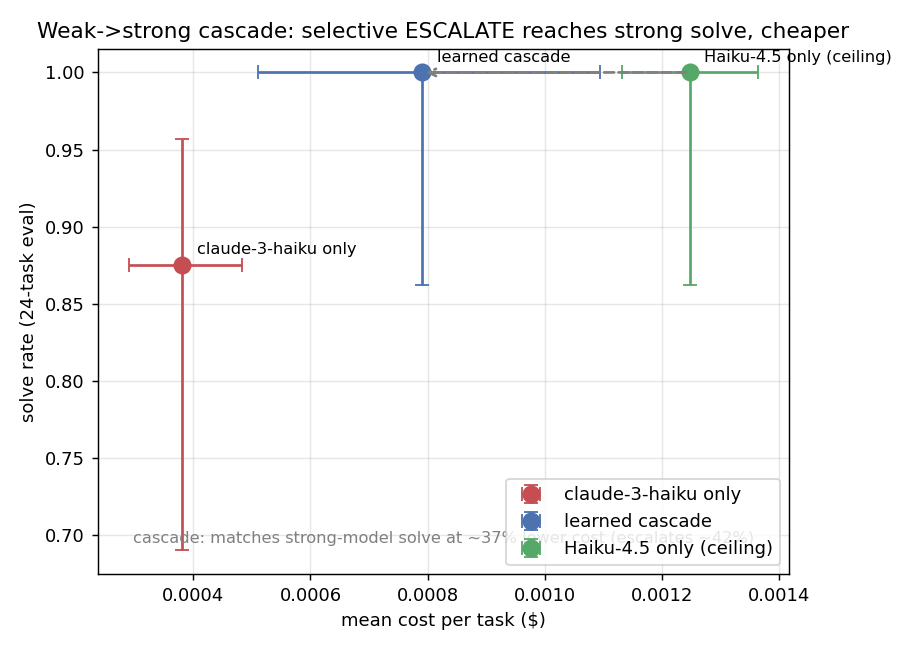
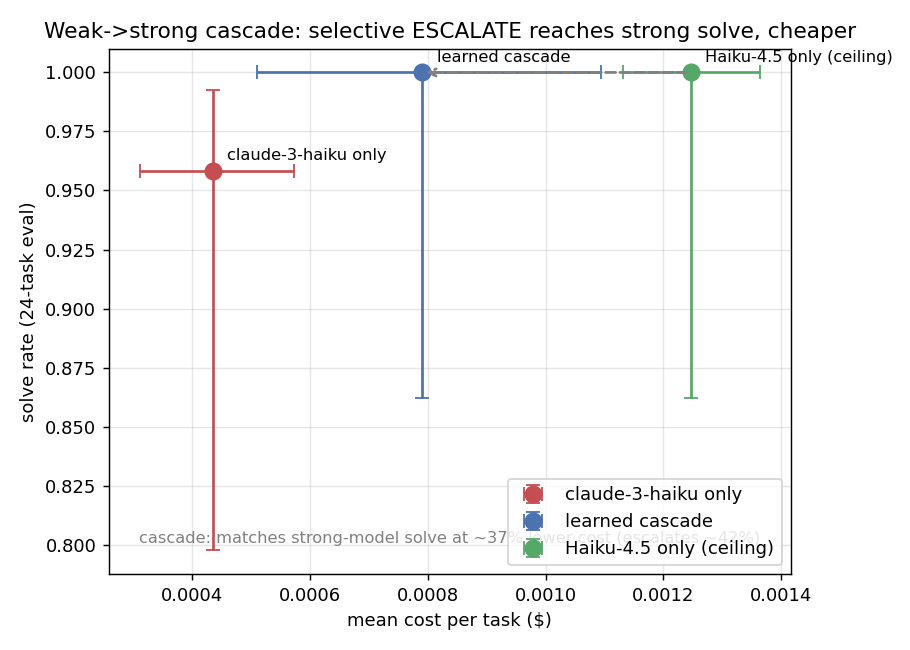
Honest cascade reporting: report p95 tail (worsens), fair cheap baseline (0.96 not 0.88), over-escalation (2/10 truly needed), exact-grade trigger + budget-not-a-cap caveats; add analyze_eval --ab2 cross-file paired command; fix stale state-doc blocks

diff --git a/scripts/analyze_eval.py b/scripts/analyze_eval.py
@@ -202,6 +202,59 @@ def analyze_stops(paths: list[str], policy: str | None = None) -> None:
             print("  (no STOP traces)")
 
 
+def analyze_ab2(path_a: str, path_b: str, tag_a: str | None = None,
+                tag_b: str | None = None) -> None:
+    """Paired A/B across TWO separate eval files (e.g. a cascade run vs a strong-only
+    run), pairing on shared task_id. analyze_ab() only handles two policy tags inside
+    ONE file; cross-file comparisons (the cascade-vs-strong result) need this. Reports
+    solve (Wilson + McNemar), the paired per-task cost CI, and the MEAN and P95 (tail)
+    cost of each arm -- the tail matters because a cascade can win on mean and lose on
+    p95. Pass --ab2-tags to pick a policy tag from each file (default: highest @rN)."""
+    import numpy as np
+
+    def _load(path, tag):
+        per = defaultdict(dict)
+        for t in TraceLog(path).read():
+            per[t.policy][t.task_id] = t
+        names = list(per)
+        if tag is None:
+            tag = max(names, key=lambda p: int(p.split("@r")[1]) if "@r" in p else -1)
+        if tag not in per:
+            raise SystemExit(f"[ab2] tag {tag} not in {path} (have {names})")
+        return tag, per[tag]
+
+    ta, A = _load(path_a, tag_a)
+    tb, B = _load(path_b, tag_b)
+    shared = sorted(set(A) & set(B))
+    n = len(shared)
+    if not n:
+        print("[ab2] no shared task_ids."); return
+
+    def solved(t):
+        return bool(t.solved or t.terminal_reward >= 0.99)
+
+    def cost(t):
+        return (t.total_cost or {}).get(t.currency, 0.0)
+
+    ka = sum(solved(A[t]) for t in shared)
+    kb = sum(solved(B[t]) for t in shared)
+    print(f"=== paired A/B (cross-file): {ta} [{path_a}] vs {tb} [{path_b}] | {n} shared ===\n")
+    print(f" solve {ta}: {wilson_ci(ka, n)}")
+    print(f" solve {tb}: {wilson_ci(kb, n)}")
+    mc = mcnemar([(solved(A[t]), solved(B[t])) for t in shared])
+    print(f" McNemar (paired solve): p={mc['p_value']:.3f}  "
+          f"({'tied' if mc['p_value'] > 0.05 else 'significant'})")
+    ca = [cost(A[t]) for t in shared]
+    cb = [cost(B[t]) for t in shared]
+    ci = paired_diff_ci([cb[i] - ca[i] for i in range(n)])
+    sig = ("  <-- B resolved CHEAPER" if ci.hi < 0 else
+           "  <-- B resolved MORE EXPENSIVE" if ci.lo > 0 else "  (straddles 0)")
+    print(f"\n mean cost {ta}={np.mean(ca):.5f} (p95 {np.percentile(ca,95):.5f}) | "
+          f"{tb}={np.mean(cb):.5f} (p95 {np.percentile(cb,95):.5f})")
+    print(f" paired mean-cost delta ({tb}-{ta}): {ci}{sig}")
+    print(f" NOTE: tail (p95) can move the opposite way to the mean; report both.")
+
+
 def analyze_oracle(paths: list[str], policy: str | None = None) -> None:
     """Oracle-rescue: WHY does the chosen policy miss the tasks it misses? For each
     SOLVABLE task the target policy failed, classify the miss so the right next lever
@@ -275,6 +328,10 @@ def main() -> None:
                     help="trace files: classify a policy's solvable misses (premature/recoverable/capability)")
     ap.add_argument("--oracle-policy", default=None,
                     help="target policy tag for --oracle (default: highest @rN)")
+    ap.add_argument("--ab2", nargs=2, metavar=("FILE_A", "FILE_B"), default=None,
+                    help="paired A/B across two separate eval files (e.g. cascade vs strong-only)")
+    ap.add_argument("--ab2-tags", nargs=2, metavar=("TAG_A", "TAG_B"), default=None,
+                    help="policy tag to pick from each --ab2 file (default: highest @rN each)")
     args = ap.parse_args()
     if args.ab:
         analyze_ab(args.ab)
@@ -286,8 +343,11 @@ def main() -> None:
         analyze_stops(args.stops, args.stops_policy)
     if args.oracle:
         analyze_oracle(args.oracle, args.oracle_policy)
-    if not (args.ab or args.irt or args.verifier or args.stops or args.oracle):
-        ap.error("pass --ab, --irt, --verifier, --stops, and/or --oracle")
+    if args.ab2:
+        ta, tb = (args.ab2_tags or (None, None))
+        analyze_ab2(args.ab2[0], args.ab2[1], ta, tb)
+    if not (args.ab or args.irt or args.verifier or args.stops or args.oracle or args.ab2):
+        ap.error("pass --ab, --ab2, --irt, --verifier, --stops, and/or --oracle")
 
 
 if __name__ == "__main__":

diff --git a/scripts/make_figures.py b/scripts/make_figures.py
@@ -250,7 +250,9 @@ def fig_cascade():
     cost -- the win is 'near-strong solve, far-below-strong cost, selectively'."""
     try:
         pts = {
-            "claude-3-haiku only":     _arm("casc3_A_c3h_eval.jsonl", "dpo@r2"),
+            # cheap-only at its BEST achievable point (bandit@r0, 0.96) -- not the weaker
+            # dpo@r2 (0.88) -- so the baseline is not cherry-picked low.
+            "claude-3-haiku only":     _arm("casc3_A_c3h_eval.jsonl", "bandit@r0"),
             "learned cascade":         _arm("casc5_B_cw15_eval.jsonl", "dpo@r2"),
             "Haiku-4.5 only (ceiling)": _arm("casc2_C_haikuonly_eval.jsonl", "dpo@r2"),
         }

diff --git a/README.md b/README.md
@@ -188,21 +188,40 @@ Two findings, both from measurement catching a wrong default:
    always-escalate is genuinely near-optimal — the policy was right). claude-3-haiku at ~0.88 does.
 
 With the rescue gate and a calibrated budget, the learned cascade **matches Haiku-4.5's solve rate
-at ~37% lower cost, escalating only ~42% of tasks**:
+at ~37% lower MEAN cost, escalating ~42% of tasks**:
 
 ![Weak→strong cascade frontier](artifacts/cascade_frontier.png)
 
-| arm | solve | mean cost/task | escalate rate |
-|-----|-------|----------------|---------------|
-| claude-3-haiku only | 0.88 | $0.00038 | — |
-| **learned cascade** | **1.00** | **$0.00079** | **0.42** |
-| Haiku-4.5 only (ceiling) | 1.00 | $0.00125 | — |
+| arm | solve | mean cost | p95 (tail) cost | escalate rate |
+|-----|-------|-----------|-----------------|---------------|
+| claude-3-haiku only (best, bandit) | 0.96 | $0.00043 | $0.00110 | — |
+| claude-3-haiku only (dpo r2) | 0.88 | $0.00038 | $0.00088 | — |
+| **learned cascade** | **1.00** | **$0.00079** | **$0.00203** | **0.42** |
+| Haiku-4.5 only (ceiling) | 1.00 | $0.00125 | $0.00169 | — |
 
-Paired, 24-task eval, cascade vs Haiku-4.5-only: solve **1.00 vs 1.00** (McNemar p=1.0, tied), cost
-delta **−0.000 [−0.001, −0.000] (95% bootstrap CI excludes 0 → resolved cheaper)**. The controller
-learned to try the cheap model first and escalate only the tasks it fails — reaching the strong
-model's accuracy for ~⅔ of its cost. (This is a separate experiment from the cost result above; it
-uses a different cheap/strong model pair and is not mixed into the single-model numbers.)
+Paired, 24-task eval, cascade vs Haiku-4.5-only: solve **1.00 vs 1.00** (McNemar p=1.0, tied), mean
+cost delta **−0.000 [−0.001, −0.000] (95% bootstrap CI excludes 0 → resolved cheaper)**. The
+controller learned to try the cheap model first and escalate only on a miss, reaching the strong
+model's accuracy for about two-thirds of its mean cost.
+
+Three honest caveats, because the win is on **mean** cost and is not yet tight:
+
+- **Tail cost gets worse, not better.** Cascade p95 is ~$0.00203 vs Haiku-only ~$0.00169: an
+  escalated task pays the cheap attempt *plus* the strong call, so the expensive tail is heavier
+  even though the average is lower. The mean-cost frontier improves; the tail-cost frontier does
+  not. A tail-aware (CVaR) objective is future work.
+- **It over-escalates.** It escalated 10 of 24 tasks, but only **2** were truly beyond the cheap
+  model; the other 8 were solvable by claude-3-haiku given another attempt. Escalating after a
+  *single* cheap miss leaves most of the theoretical saving (toward ~60%) on the table. The clear
+  next lever is **one cheap retry before ESCALATE** when the cheap marginal cost is low.
+- **The escalation trigger here is a free exact grader, not a validated cheap verifier.** On this
+  arithmetic suite a failed cheap attempt scores exactly 0, so "did the cheap model fail" is known
+  for free. On a task without a free grader you would need a cheap verifier whose reliability is
+  established by the alt-test — that is what a tau-bench transfer would have to demonstrate.
+
+(This is a separate experiment from the cost result above: a different cheap/strong model pair, not
+mixed into the single-model numbers. `budget` here is a credit-normalization knob, not a hard spend
+cap — the runner checks budget after each action, so a single task can spend past it.)
 
 ---
 

diff --git a/docs/RESEARCH_STATE.md b/docs/RESEARCH_STATE.md
@@ -128,8 +128,24 @@ saving (always-escalate genuinely ~optimal, policy was right); claude-3-haiku (0
 casc5_B_cw15 (cascade), casc2_C_haikuonly (ceiling). This is a SEPARATE experiment from calib4
 (different cheap/strong pair; not mixed into single-model numbers). Remaining optional: push
 cost-weight higher / let policy retry cheap before escalating (more saving toward ~60% theoretical);
-tau-bench transfer (credibility); Opus as strong target if a bigger lift is wanted. Phase 4 alt-test
-is structurally satisfied (rescue gate conditions escalation on the cheap-attempt outcome).
+tau-bench transfer (credibility); Opus as strong target if a bigger lift is wanted.
+
+HONEST CAVEATS (from external review, all verified in traces -- do NOT overclaim):
+- **Win is on MEAN cost; TAIL gets worse.** cascade p95 ~$0.00203 vs haiku-only ~$0.00169 (escalated
+  task pays cheap + strong). Report both; a CVaR/tail-aware objective is future work.
+- **Over-escalates.** escalated 10/24 but only 2 were truly cheap-unsolvable; 8 were recoverable by a
+  cheap retry. So "selective" is crude (escalates after ONE miss). Real next lever = one cheap RETRY
+  before ESCALATE when cheap marginal cost is low -> should cut escalations and lower mean AND tail.
+- **Cheap baseline is ~0.96, not 0.88.** claude-3-haiku bandit@r0 = 0.96 @ $0.00043; dpo@r2 = 0.88.
+  The "recovers 0.88->1.00" sub-story understated the baseline; report cheap-only at its best.
+- **Escalation trigger = FREE EXACT grader, not a validated cheap verifier.** A failed cheap attempt
+  scores exactly 0 on this arithmetic suite, so "did cheap fail" is known for free. Phase 4 alt-test
+  is NOT satisfied here (no cheap verifier was validated) -- that is precisely what a tau-bench
+  transfer would have to establish. Earlier note that it was "structurally satisfied" was too generous.
+- **budget is a credit-normalization knob, NOT a hard cap.** Runner checks budget AFTER each action,
+  so a single cascade task can spend 2.7x budget ($0.00216 at budget 0.0008). Never describe as a cap.
+Tooling: `analyze_eval.py --ab2 FILE_A FILE_B` now does the cross-file paired comparison (was an
+inline script); reports mean AND p95.
 
 **PHASE 5 RESULT v1 (uncalibrated budget -- cascade NOT selective; diagnosed + re-running):**
 ESCALATE built (Phase 3, 52 tests). 3-arm eval (60 graded no-calc tasks, budget 0.02, dpo@r2):
@@ -179,7 +195,8 @@ true DEEPER review-revise mode (needs executor support).
 
 ## >>> earlier PICK UP notes (still relevant for context) <<<
 
-Latest commit on main: **1cfa1a9** (all pushed, 48 offline tests pass, tree clean).
+(Historical note; current state is the ESCALATE/cascade blocks at the top. As of the cascade work:
+**52 offline tests pass**, all pushed. Do not trust the specific old commit hashes below.)
 
 0. **calib2 is DONE and analyzed** (RESULT block above: DECOMPOSE fixed, frontier flat). No
    sweep is running (a premature calib3 was launched then killed -- decision: do the FIXES
@@ -236,7 +253,7 @@ Latest commit on main: **1cfa1a9** (all pushed, 48 offline tests pass, tree clea
    gap -- utility==solve until STOP is explored), then the ESCALATE capstone (task #54), then
    tau-bench. Escalation stays OFF until the above shows whether the fixes moved the frontier.
 
-## Current status (latest commit 1cfa1a9)
+## Historical status snapshot (STALE -- pre-ESCALATE; see the cascade blocks at the TOP for current)
 
 - **All 8 bugs fixed and committed; 47 offline tests pass.** Latest commits: cae1958 (DECOMPOSE
   synthesis + 4), 9c67b3b (utility/solvable metrics + eval-trace logging), 20220a8 (decomposability